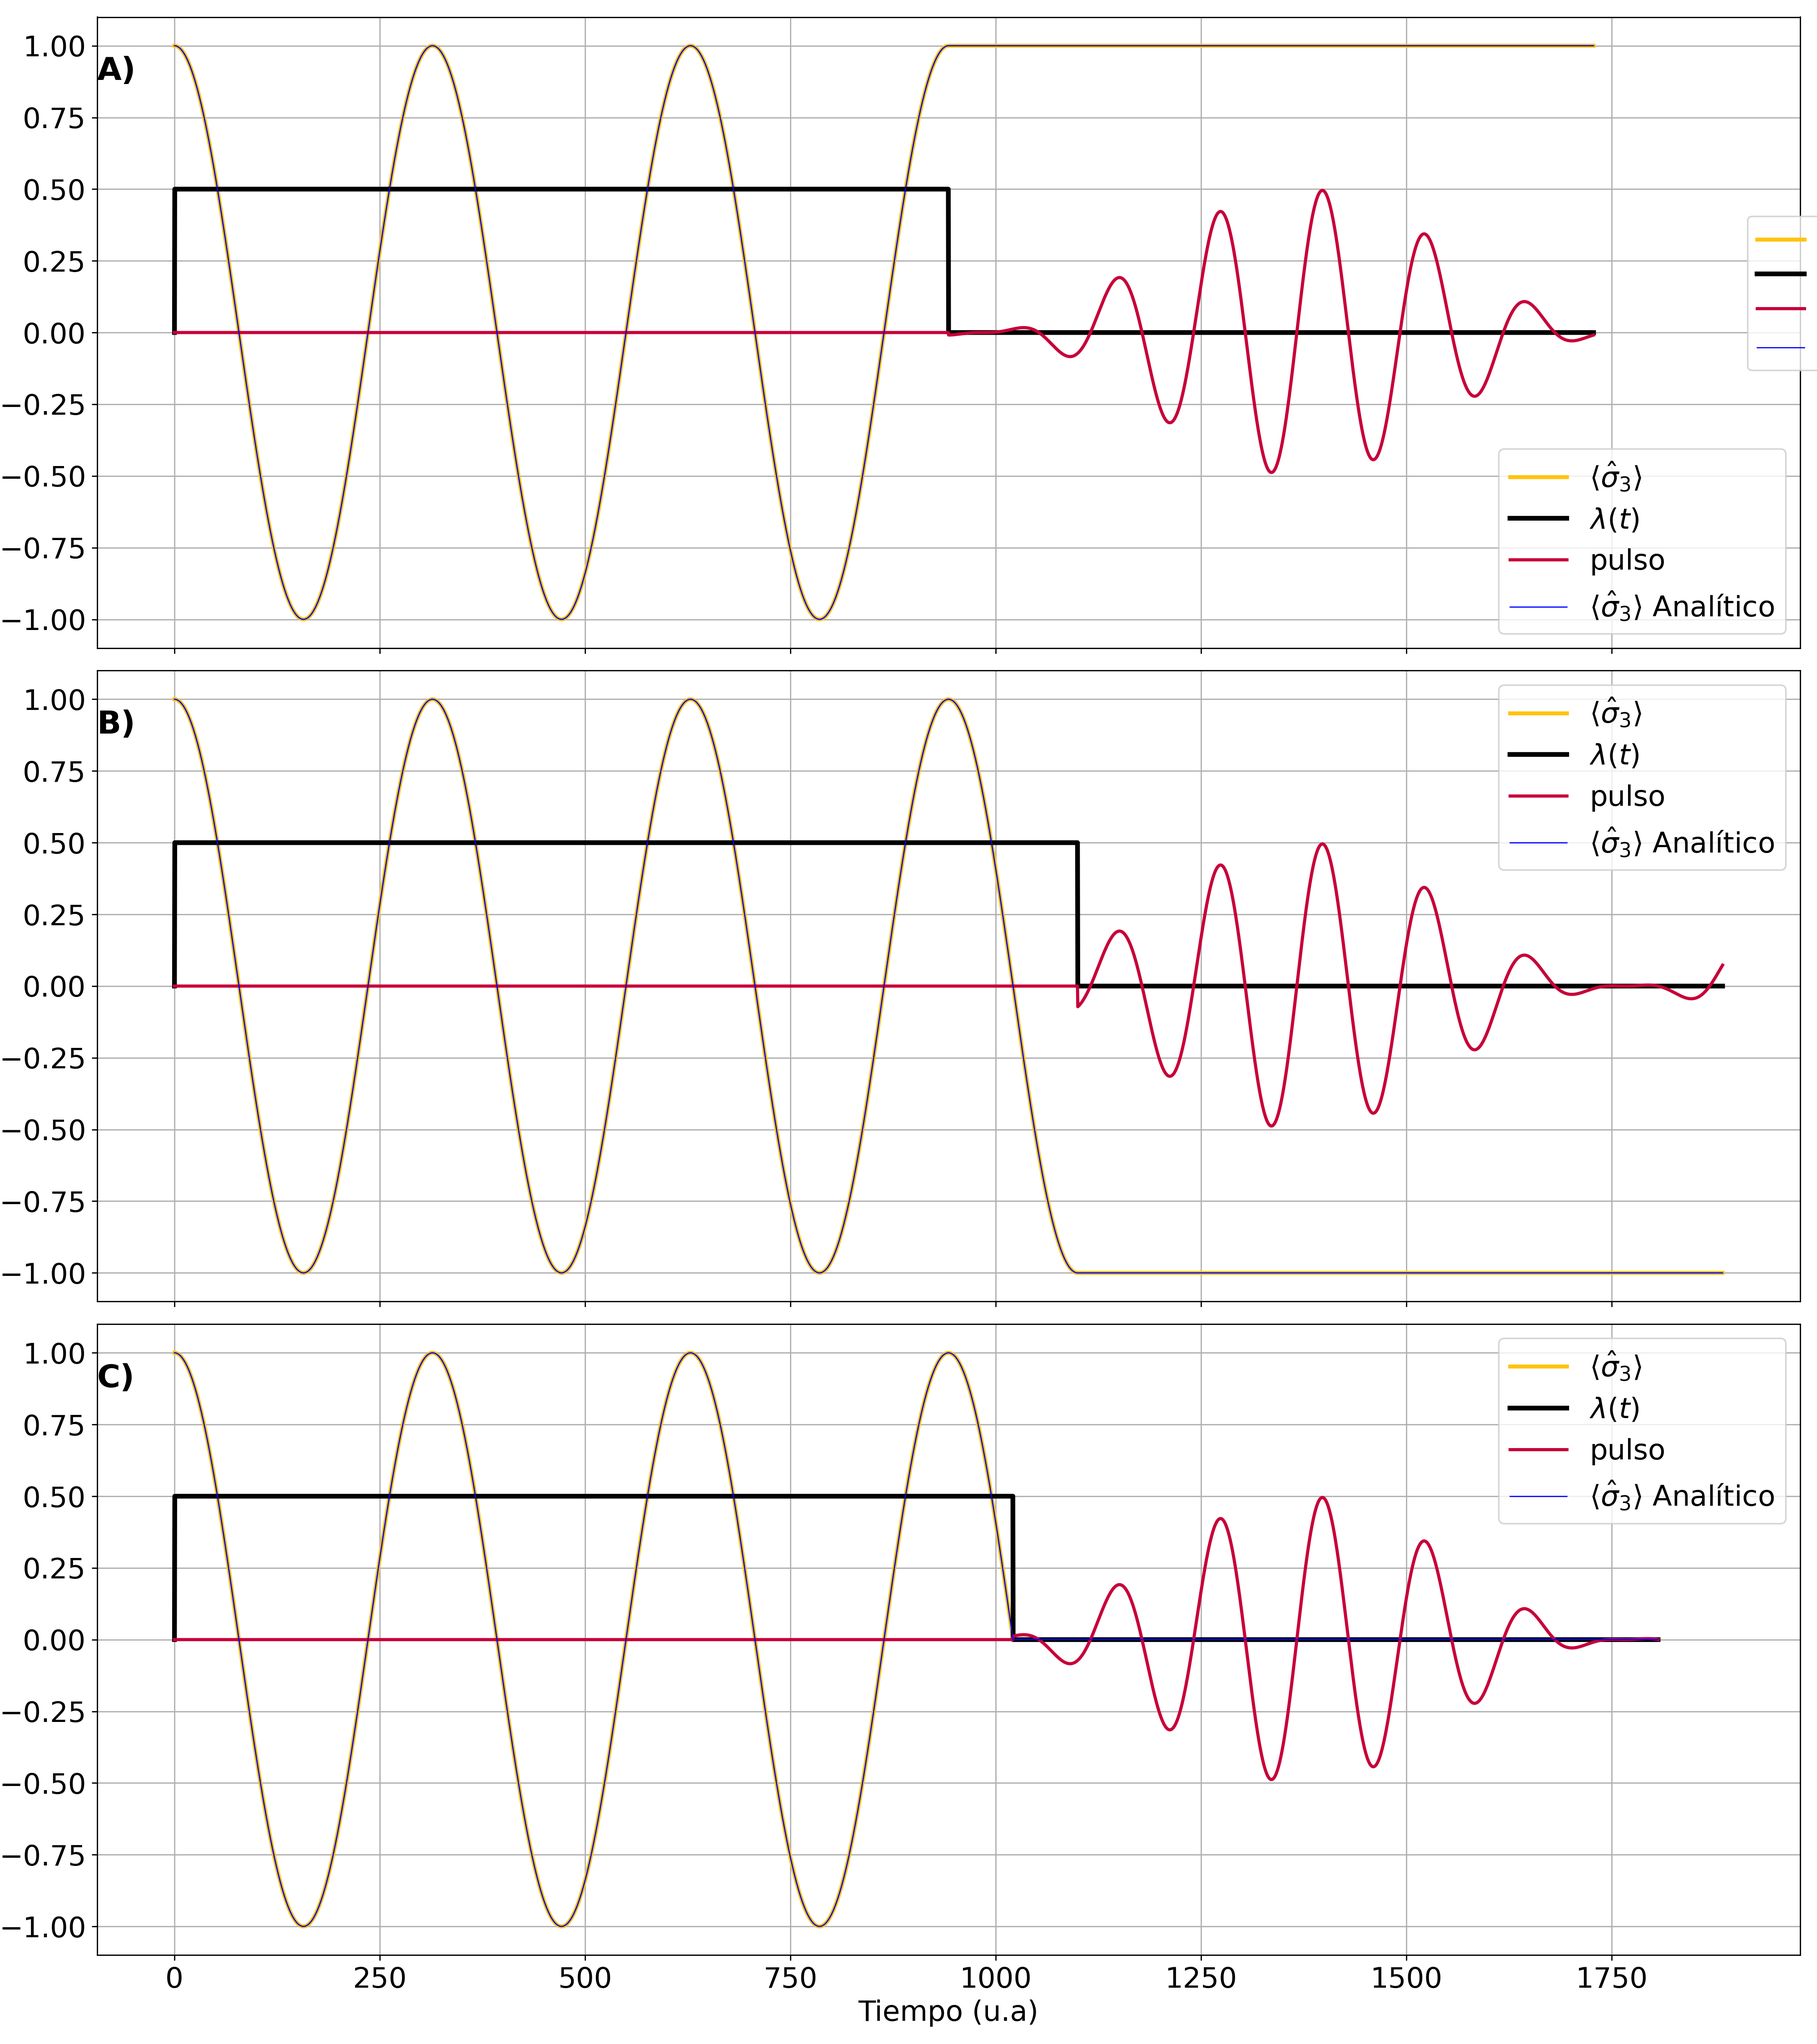
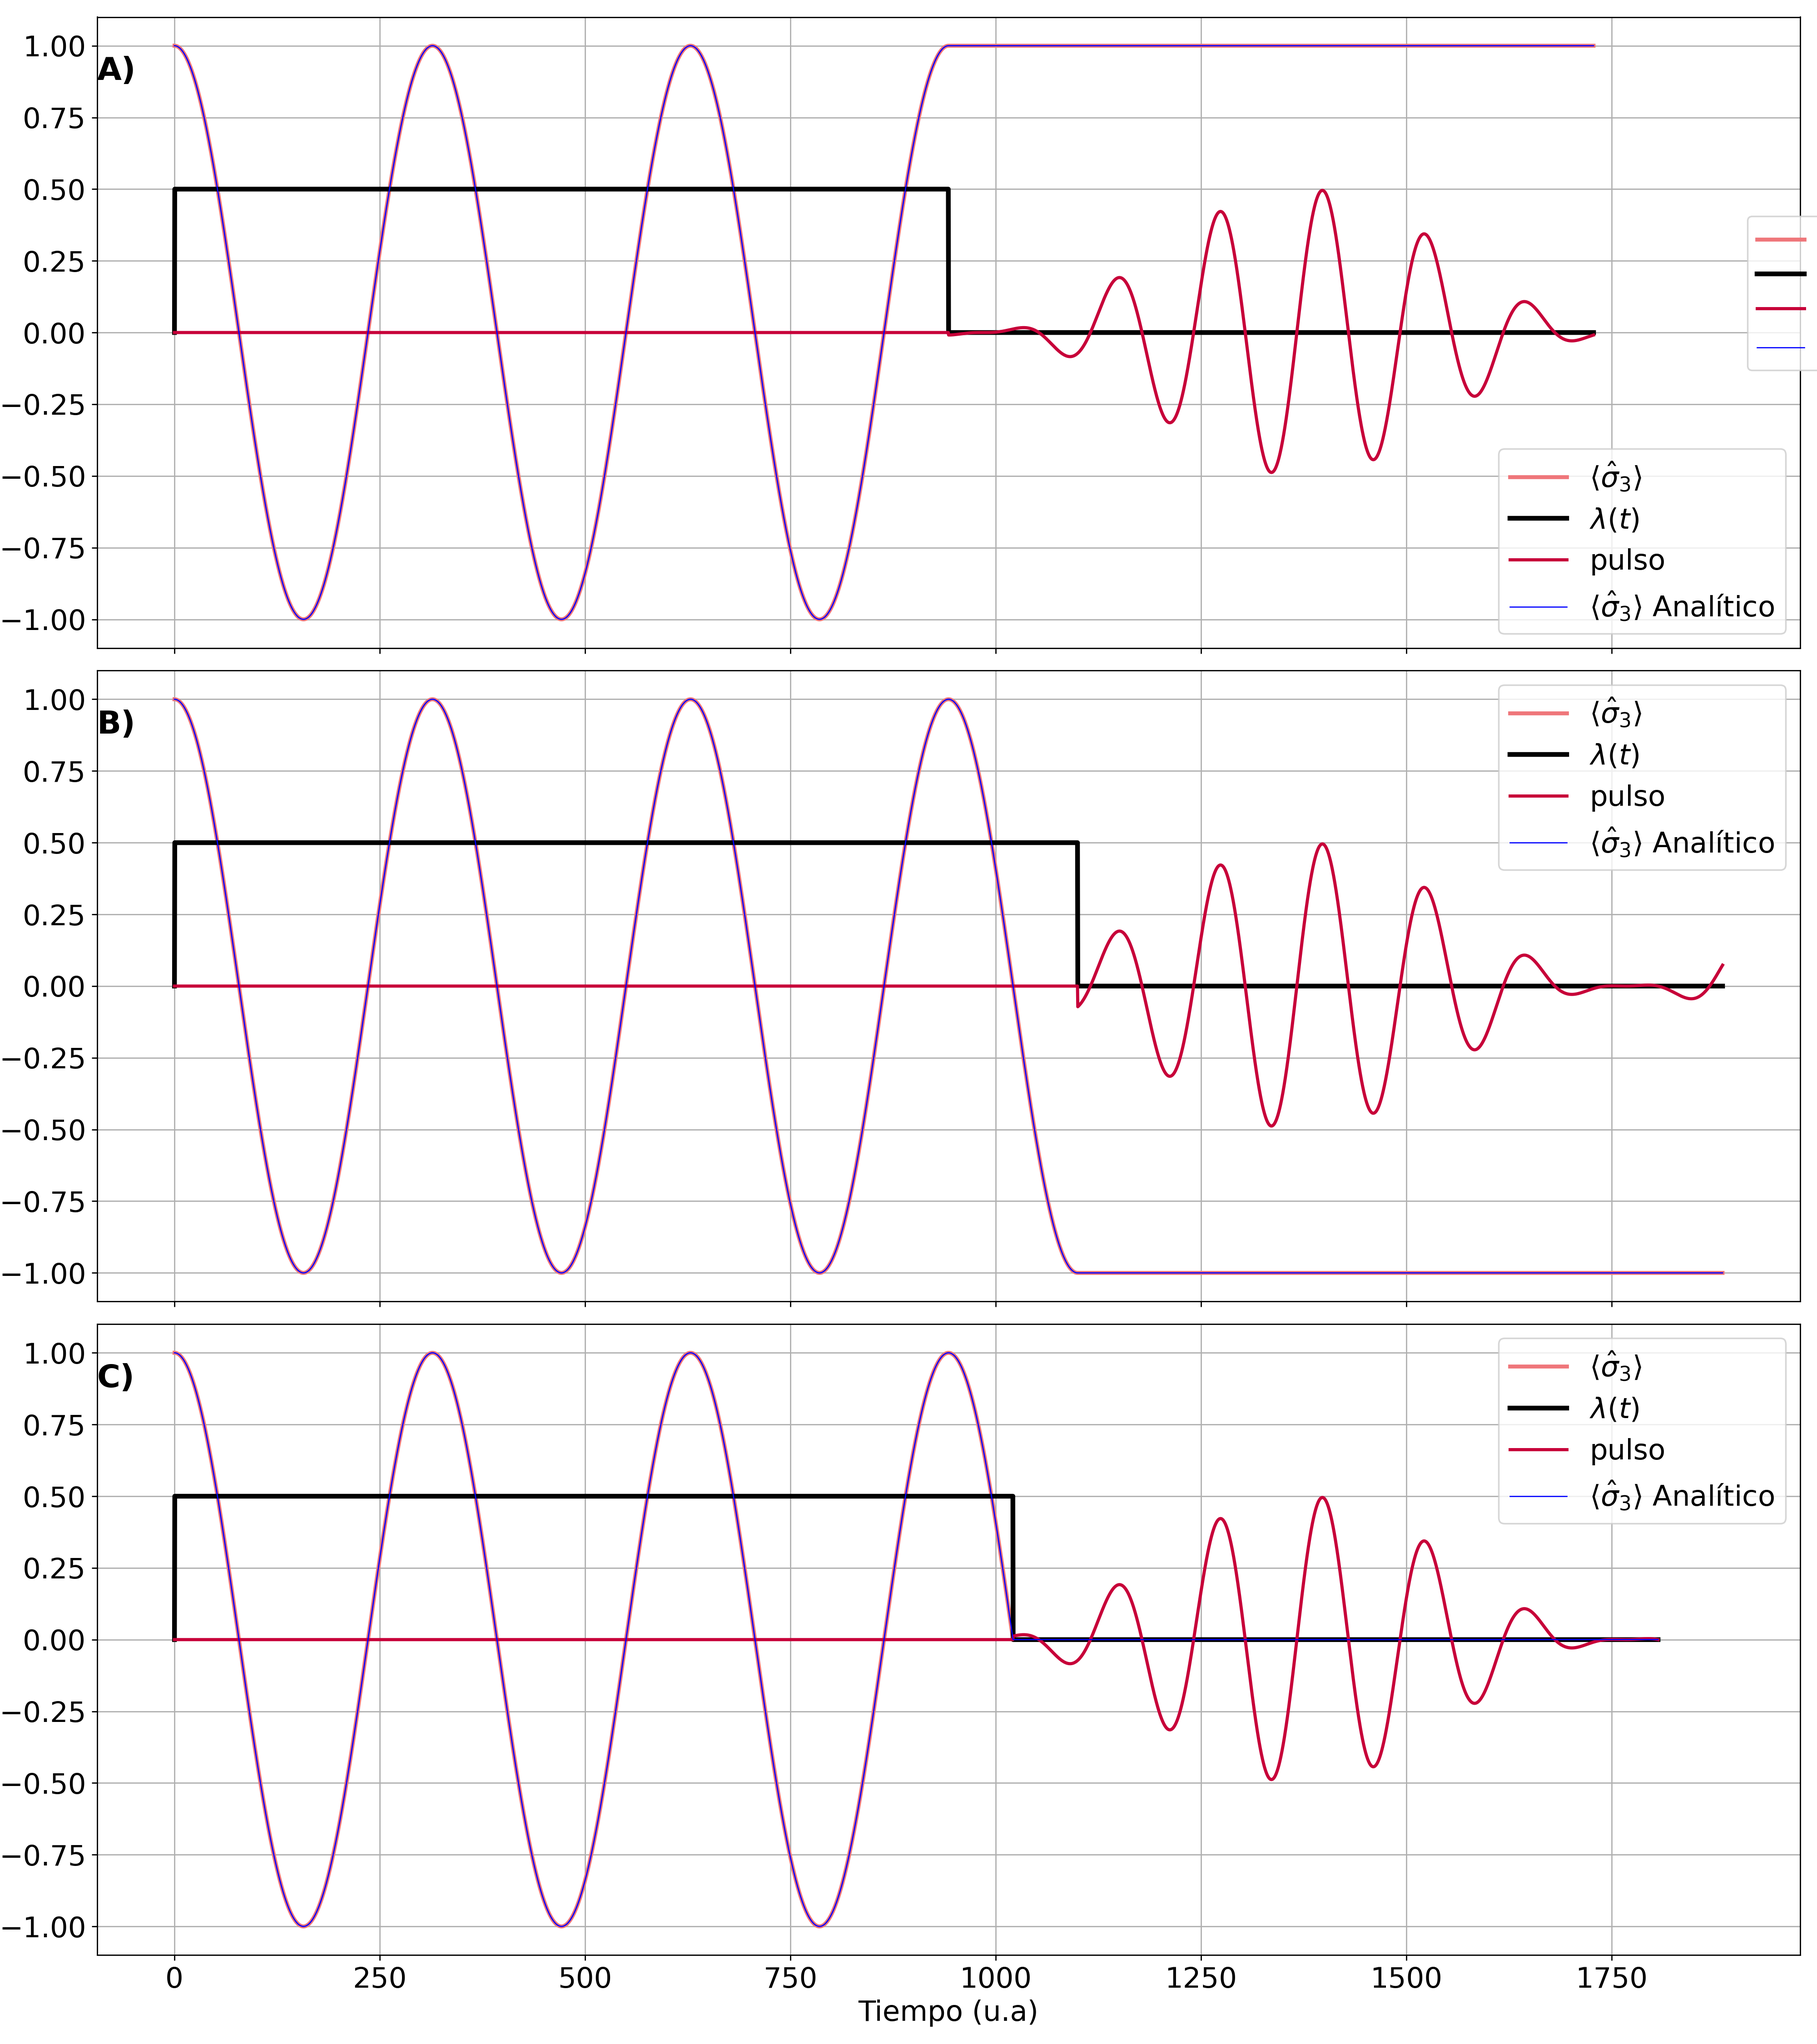
Resultados y discusión.

Changed region(s): [[0.4375, 0.5911, 0.4688, 0.6222], [0.2188, 0.3422, 0.25, 0.3733]]

diff --git a/execute_retraso_negative_3_casos.py b/execute_retraso_negative_3_casos.py
@@ -47,7 +47,7 @@ fig.subplots_adjust(hspace=0.5, left=0.1, right=0.9, top=0.95, bottom=0.05)
 for i, retraso in enumerate([retraso1, retraso2, retraso3]):
     #En cada esquina superior izquierda de cada subplot, agregar A) B) C) D) E)
     axs[i].text(0, 0.90,  chr(65 + i) + ")", transform=axs[i].transAxes, size=20, weight='bold')
-    axs[i].plot(retraso[0], retraso[1], label=r'$\langle \hat{\sigma}_{3} \rangle$', color="#FFC30F", lw=2.5)
+    axs[i].plot(retraso[0], retraso[1], label=r'$\langle \hat{\sigma}_{3} \rangle$', color="#EF767A", lw=2.5)
     axs[i].plot(retraso[0], retraso[3] * 50, label=r'$\lambda (t)$', color='black', lw=3)
     axs[i].plot(retraso[0], retraso[4] * 25, label="pulso", color="#C70039", lw=2)
     axs[i].tick_params(axis='y', labelsize=18)
@@ -83,16 +83,23 @@ plt.show()
 plt.figure(figsize=(12,7))
 plt.grid()
 #plt.title("Inversion de poblacion y numero promedio de fotones",fontsize=20)
-plt.plot(retraso3[0], retraso1[2], label="Terminando en |e>",color='#3CAEA3')
-plt.plot(retraso2[0], retraso2[2], label="Terminando en |g>",color='#F6D55C')
-plt.plot(retraso1[0], retraso3[2], label="Terminando en |e>+|g>",color='#ED553B')
+plt.plot(retraso1[0], retraso1[2], label="Terminando en |e>",color='#3CAEA3')
+plt.plot(retraso2[0], retraso2[2], label="Terminando en |g>",color='black')
+plt.plot(retraso3[0], retraso3[2], label=r'$\frac{1}{\sqrt{2}}(|e\rangle + |g\rangle)$',color='#ED553B')
 #Quiero poner más stickers en el eje y, desde 0 hsta 18, de 1 en 1
 plt.yticks(np.arange(0, 18, 1))
 plt.xlabel('Tiempo (u.a.)',fontsize=15)
 plt.ylabel(r'$\langle \hat{a}^{\dagger}\hat{a} \rangle$',fontsize=15)
-plt.legend(fontsize=16)
 plt.xticks(fontsize=16)
 plt.yticks(fontsize=16)
+#Quiero poner una linea punteada en los valores de cada valor del número promedio de fotones
+#El valor de y es el último valor de retraso1[2], retraso2[2] y retraso3[2]
+plt.hlines(retraso1[2][-1], retraso1[0][-1], 2000, linestyles='dashed', colors='black')
+plt.hlines(retraso2[2][-1], retraso2[0][-1], 2000, linestyles='dashed', colors='black')
+plt.hlines(retraso3[2][-1], retraso3[0][-1], 2000, linestyles='dashed', colors='black')
+#Quiero un solo legend para las lineas punteadas
+plt.plot([], [], 'k--', label='Valor final para cada caso', lw=2)
+plt.legend(fontsize=16)
 plt.savefig('Aver_minus-3.png', dpi=250)
 
 plt.show()

diff --git a/execute_retraso.py b/execute_retraso.py
@@ -38,10 +38,11 @@ fig.subplots_adjust(hspace=0.5, left=0.1, right=0.9, top=0.95, bottom=0.05)
 for i, retraso in enumerate([retraso1, retraso2, retraso3, retraso4, retraso5]):
     #En cada esquina superior izquierda de cada subplot, agregar A) B) C) D) E)
     axs[i].text(0, 0.90,  chr(65 + i) + ")", transform=axs[i].transAxes, size=20, weight='bold')
-    axs[i].plot(retraso[0], retraso[1], label=r'$\langle \hat{\sigma}_{3} \rangle$', color="#FFC30F", lw=2.5)
+    axs[i].plot(retraso[0], retraso[1], label=r'$\langle \hat{\sigma}_{3} \rangle$', color="#EF767A", lw=2.5)
     axs[i].plot(retraso[0], retraso[3] * 50, label=r'$\lambda (t)$', color='black', lw=3)
-    axs[i].plot(retraso[0], retraso[4] * 25, label="pulso", color="#C70039", lw=2)
+    axs[i].plot(retraso[0], retraso[4] * 25, label="pulso", color="#456990", lw=2.5)
     axs[i].tick_params(axis='y', labelsize=18)
+    axs[i].legend(fontsize=18)
     axs[i].grid()
 
     # Etiquetas en x solo para el último subplot
@@ -52,10 +53,15 @@ for i, retraso in enumerate([retraso1, retraso2, retraso3, retraso4, retraso5]):
         axs[i].tick_params(axis='y', labelsize=18)
 
     # Etiquetas en x solo para el último subplot
+    #Quiero que el legend de este en el centro de la figura
+    #if i == 0:
+    #    axs[i].legend(fontsize=18, loc='center')
     if i == 0:
-         axs[i].plot(retraso[0], retraso[1], label=r'$\langle \hat{\sigma}_{3} \rangle$ Analítico', color="blue", lw=0.75)
+         axs[i].plot(retraso[0], retraso[1], label=r'$\langle \hat{\sigma}_{3} \rangle$ Analítico', color="#49BEAA", lw=0.75)
+         axs[i].legend(fontsize=18, loc='center')
+
          
-    axs[i].legend(fontsize=18)
+    
         
 
 # Unificar leyendas
@@ -82,7 +88,7 @@ plt.grid()
 plt.plot(retraso1[0], retraso1[2], label="Retraso = 100%",color='#173F5F')
 plt.plot(retraso2[0], retraso2[2], label="Retraso = 75%",color='#20639B')
 plt.plot(retraso3[0], retraso3[2], label="Retraso = 50%",color='#3CAEA3')
-plt.plot(retraso4[0], retraso4[2], label="Retraso = 25%",color='#F6D55C')
+plt.plot(retraso4[0], retraso4[2], label="Retraso = 25%",color='black')
 plt.plot(retraso5[0], retraso5[2], label="Retraso = 0%",color='#ED553B')
 plt.xlabel('Tiempo (u.a.)',fontsize=15)
 plt.ylabel(r'$\langle \hat{a}^{\dagger}\hat{a} \rangle$',fontsize=20)

diff --git a/execute_retraso_intermedio.py b/execute_retraso_intermedio.py
@@ -36,9 +36,9 @@ fig.subplots_adjust(hspace=0.5, left=0.1, right=0.9, top=0.95, bottom=0.05)
 for i, retraso in enumerate([ retraso4, retraso5]):
     #En cada esquina superior izquierda de cada subplot, agregar A) B) C) D) E)
     axs[i].text(0, 0.90,  chr(65 + i) + ")", transform=axs[i].transAxes, size=20, weight='bold')
-    axs[i].plot(retraso[0], retraso[1], label=r'$\langle \hat{\sigma}_{3} \rangle$', color="#FFC30F", lw=2.5)
+    axs[i].plot(retraso[0], retraso[1], label=r'$\langle \hat{\sigma}_{3} \rangle$', color="#EF767A", lw=2.5)
     axs[i].plot(retraso[0], retraso[3] * 50, label=r'$\lambda (t)$', color='black', lw=3)
-    axs[i].plot(retraso[0], retraso[4] * 25, label="pulso", color="#C70039", lw=2)
+    axs[i].plot(retraso[0], retraso[4] * 25, label="pulso", color="#456990", lw=2)
     axs[i].tick_params(axis='y', labelsize=18)
     axs[i].legend(fontsize=18)
     axs[i].grid()
@@ -70,7 +70,7 @@ plt.figure(figsize=(12,7))
 plt.grid()
 #plt.title("Inversion de poblacion y numero promedio de fotones",fontsize=20)
 plt.plot(retraso5[0], retraso5[2], label="Retraso = -300%",color='#173F5F')
-plt.plot(retraso4[0], retraso4[2], label="Retraso = -200%",color='#FFC30F')
+plt.plot(retraso4[0], retraso4[2], label="Retraso = -200%",color='#ED553B')
 
 plt.xlabel('Tiempo (u.a.)',fontsize=15)
 plt.ylabel(r'$\langle \hat{a}^{\dagger}\hat{a} \rangle$',fontsize=15)

diff --git a/execute_retraso_negative.py b/execute_retraso_negative.py
@@ -42,7 +42,7 @@ fig.subplots_adjust(hspace=0.5, left=0.1, right=0.9, top=0.95, bottom=0.05)
 for i, retraso in enumerate([retraso1, retraso2, retraso3, retraso4, retraso5]):
     #En cada esquina superior izquierda de cada subplot, agregar A) B) C) D) E)
     axs[i].text(0, 0.90,  chr(65 + i) + ")", transform=axs[i].transAxes, size=20, weight='bold')
-    axs[i].plot(retraso[0], retraso[1], label=r'$\langle \hat{\sigma}_{3} \rangle$', color="#FFC30F", lw=2.5)
+    axs[i].plot(retraso[0], retraso[1], label=r'$\langle \hat{\sigma}_{3} \rangle$', color="#EF767A", lw=2.5)
     axs[i].plot(retraso[0], retraso[3] * 50, label=r'$\lambda (t)$', color='black', lw=3)
     axs[i].plot(retraso[0], retraso[4] * 25, label="pulso", color="#C70039", lw=2)
     axs[i].tick_params(axis='y', labelsize=18)
@@ -59,7 +59,7 @@ for i, retraso in enumerate([retraso1, retraso2, retraso3, retraso4, retraso5]):
     # Etiquetas en x solo para el último subplot
     if i == 4:
          axs[i].plot(retraso[0], retraso[1], label=r'$\langle \hat{\sigma}_{3} \rangle$ Analítico', color="blue", lw=0.75)
-         axs[i].legend(fontsize=18)
+         axs[i].legend(fontsize=18, loc='center')
 
 # Unificar leyendas
 handles, labels = axs[0].get_legend_handles_labels()
